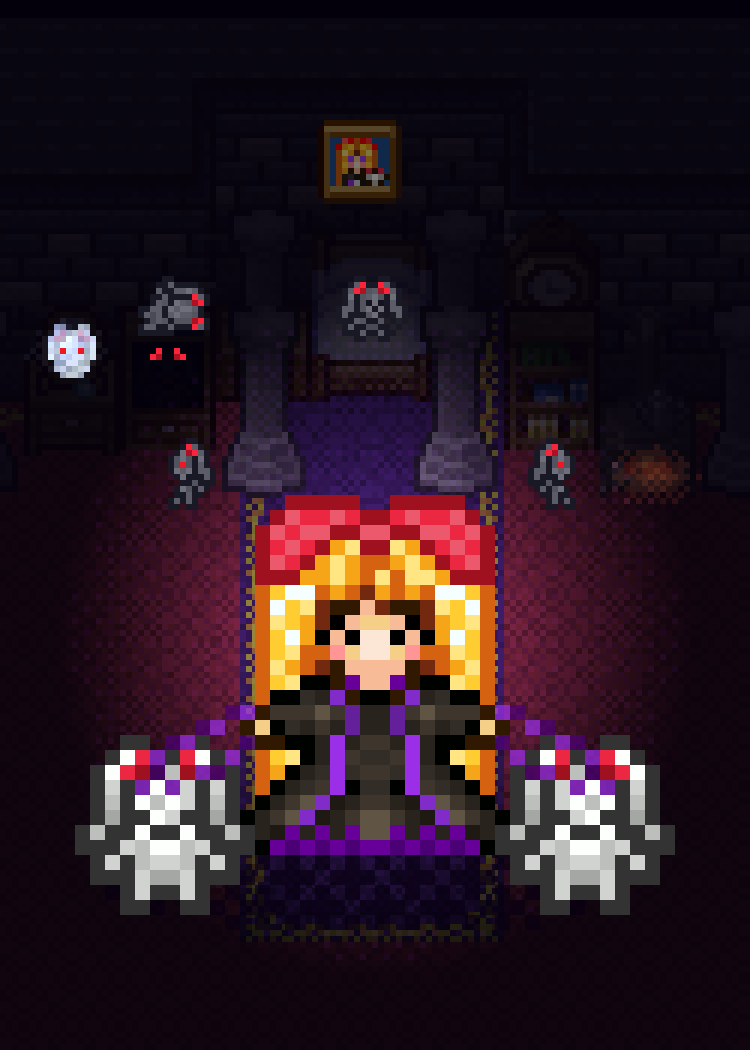
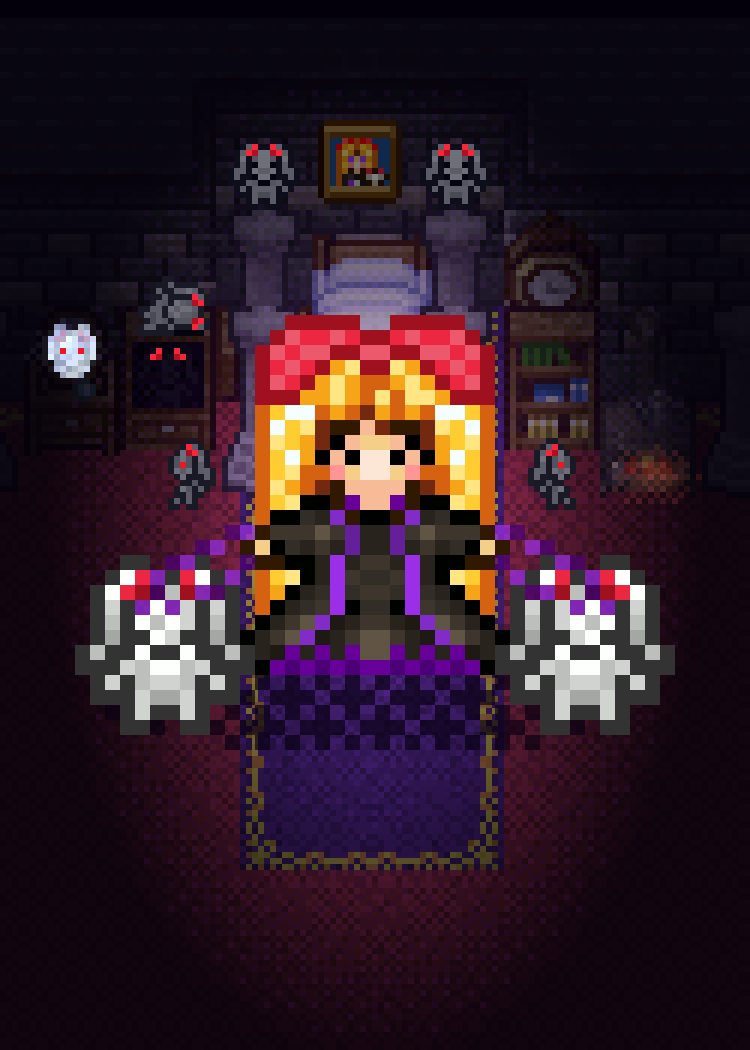
Runde 5: Zwischenstand der Helden-Sleeves (in Arbeit)
Claude-Session: https://claude.ai/code/session_01TEnvTzH2xD44R6Unjv7vDo

diff --git a/data/sleeve-proposals/runde5/generator/s02_glacier_vault.py b/data/sleeve-proposals/runde5/generator/s02_glacier_vault.py
@@ -1,0 +1,205 @@
+# -*- coding: utf-8 -*-
+"""02 Glacier Vault – Broghan, the Frozen Guardian of the North, steht in Ketten im Gewölbe unter dem Gletscher und
+bewacht das Heart of Ice, das hinter ihm über dem Spiegeleis schwebt und die Eiswände kalt aufleuchten lässt.
+Er selbst kann nicht erfrieren – er IST das Eis; sein rotes Auge ist das einzige warme Licht im Gewölbe.
+
+Quellen:
+  MotiveGrailWar.xcf  Ebene 472 „Broghan-Kopie“ – Base-Broghan mit Ketten (Karte „Broghan, the Frozen Guardian of
+                      the North“, Sichtbar #31 = Ebene 108, Lage 233,97; linke obere Figur, Box 245,105–300,145).
+                      Geprüft gegen die Szene: alle Pixel stimmen bis auf den weißen Schneedunst (~20 %) und das rote
+                      Fadenkreuz der Karte überein; Ebene 473 „Broghan“ ist dieselbe Figur OHNE Ketten, die Figur rechts
+                      (Armbrust) und die kettenlose Figur unten auf beiden Ebenen gehören zu anderen Szenen.
+  MotiveGrailWar.xcf  Ebene 476 „Ebene #139“ – Eisfels-Textur (Eisgrate aus derselben Broghan-Szene), senkrecht
+                      16-px-periodisch, daraus die Gewölbewand.
+  Motive.xcf          Ebene 739 „Heart of Ice“ – das Artefakt (Karte „Heart of Ice“, Sichtbar Ebene 736).
+Selbst gezeichnet: Lichtführung/Verdunklung der Eiswand, Eiszapfen, Spiegeleis-Boden mit Spiegelungen, Lichthof und
+Strahlen des Herzens, Verlängerung der beiden oberen Ketten bis zur Decke (Kettenglieder im Muster der Figur).
+
+Skalierung (Tiefenebenen):
+  Hintergrund (Eiswand, Eiszapfen, Spiegeleis hinten)       – 2×-Raster (125×175)
+  Mittelgrund (Heart of Ice mit Lichthof und Strahlen)      – 3×-Raster (84×117)
+  Vordergrund (Broghan, Ketten, seine Spiegelung, Boden)    – 5×-Raster (51×71, um 3 px nach links versetzt,
+                                                             damit Broghans Symmetrieachse mittig liegt)
+"""
+import math, random
+import numpy as np
+from common import *  # noqa
+
+rnd = random.Random(2)
+BAY = np.array([[0, 8, 2, 10], [12, 4, 14, 6], [3, 11, 1, 9], [15, 7, 13, 5]]) / 16.0 + 1 / 32.0
+
+# ------------------------------------------------------------------ Sprites
+broghan = sprite('h02_broghan', 'MotiveGrailWar', [472], box=(245, 105, 300, 145))   # 43×31, Achse Spalte 21
+heart = sprite('h02_heart', 'Motive', [739])                                          # 10×8
+wall_src = layer('MotiveGrailWar', 476)
+
+ICE = [(90, 146, 198), (57, 89, 140), (132, 186, 222), (82, 121, 173), (173, 215, 255), (231, 239, 255), (82, 117, 173)]
+
+
+def ice_texture():
+    """Senkrecht kachelbare Eistextur (16 Zeilen) aus dem Eisgrat: je Spalte ein 16er-Stück aus dem Band."""
+    rgb = wall_src[..., :3]
+    m = np.zeros(rgb.shape[:2], bool)
+    for c in ICE: m |= (rgb == c).all(2)
+    m &= wall_src[..., 3] > 0
+    T = np.zeros((16, 320, 3), np.uint8)
+    for i, x in enumerate(range(143, 463)):
+        ys = np.nonzero(m[:, x])[0]
+        runs = np.split(ys, np.nonzero(np.diff(ys) != 1)[0] + 1)
+        r = max(runs, key=len)
+        for y in r[:16]: T[y % 16, i] = rgb[y, x]
+    return T
+
+
+def comp(dst, src_rgba, k, ox=0, oy=0):
+    """Grobe RGBA-Ebene k-fach hochskalieren und auf das 250er-Canvas legen."""
+    big = up(src_rgba, k)
+    dst.paste(big, ox, oy)
+
+
+# ================================================================== Hintergrund 2× (125×175)
+W2, H2 = 125, 175
+HX, HY = 62.5, 39.0           # Herzmitte im 2×-Raster (125, 78 im 250er-Raster)
+HOR = 117                     # Horizont: Wand trifft Spiegeleis (y 234)
+T = ice_texture()
+tex = np.tile(T[:, 96:96 + W2], (H2 // 16 + 2, 1, 1))[:H2]
+bg = np.zeros((H2, W2, 4), np.uint8); bg[..., 3] = 255
+
+NAVY = np.array((10, 14, 34))
+
+
+def light(x, y):
+    d = math.hypot((x + 0.5 - HX) / 1.0, (y + 0.5 - HY) / 1.15)
+    L = max(0.0, 1 - d / 78.0) ** 1.6
+    return L
+
+
+for y in range(HOR):
+    for x in range(W2):
+        L = light(x, y)
+        # untere Wandzone etwas heller (Gegenlicht vom Spiegeleis)
+        L += 0.10 * max(0, (y - 80) / 37)
+        f = 0.16 + 0.95 * L
+        q = math.floor(f * 6 + BAY[y % 4, x % 4] - 0.5) / 6
+        q = min(max(q, 0.12), 1.05)
+        c = tex[y, x].astype(float)
+        col = NAVY * (1 - q) + c * q
+        bg[y, x, :3] = np.clip(col, 0, 255)
+
+# Eiszapfen an der Gewölbedecke (Silhouetten mit heller Kante)
+top = np.zeros(W2, int)
+x = 0
+while x < W2:
+    w = rnd.choice((3, 4, 5, 6))
+    ln = rnd.choice((4, 6, 8, 10, 13)) + (6 if abs(x - 62) > 34 else 0)
+    for i in range(w):
+        xx = x + i
+        if xx >= W2: break
+        t = abs(i - (w - 1) / 2) / (w / 2)
+        top[xx] = int(ln * (1 - t) + 2)
+    x += w
+for x in range(W2):
+    for y in range(0, top[x] + 3):
+        bg[y, x, :3] = (8, 11, 28) if y < top[x] else (18, 26, 58)
+    if 0 < top[x] < H2: bg[top[x] - 1, x, :3] = (46, 70, 128)       # Glanzkante
+
+# Spiegeleis: Wand gespiegelt, abgedunkelt, mit waagerechten Schlieren
+for y in range(HOR, H2):
+    k = y - HOR
+    sy = HOR - 1 - k
+    for x in range(W2):
+        c = bg[max(sy, 0), x, :3].astype(float) if sy >= 0 else NAVY
+        fade = 0.55 - 0.012 * k
+        col = NAVY * (1 - max(fade, 0.18)) + c * max(fade, 0.18)
+        # glatte Bänder
+        if (k + (x // 9) % 3) % 7 == 0 and k < 40: col = col * 1.18
+        bg[y, x, :3] = np.clip(col, 0, 255)
+# Horizontkante: dünner heller Saum (Schneerand am Wandfuß)
+for x in range(W2):
+    L = light(x, HOR)
+    c = (150, 176, 226) if L > 0.18 else (86, 110, 170)
+    bg[HOR, x, :3] = c
+    bg[HOR - 1, x, :3] = (62, 88, 150) if (x % 4) else c
+
+# ================================================================== Mittelgrund 3× (84×117)
+W3, H3 = 84, 117
+mid = np.zeros((H3, W3, 4), np.uint8)
+hx3, hy3 = 125 / 3, 78 / 3             # Herzmitte im 3×-Raster
+CY1, CY2, CW = (156, 211, 255), (114, 192, 255), (231, 243, 255)
+for y in range(H3):
+    for x in range(W3):
+        dx, dy = x + 0.5 - hx3, y + 0.5 - hy3
+        d = math.hypot(dx, dy * 1.05)
+        a = 0.0
+        if d < 15: a = max(a, 0.55 * (1 - d / 15) ** 1.2)
+        # vier weiche Strahlen (diagonal + senkrecht)
+        ang = math.atan2(dy, dx)
+        for base in (math.pi / 2, -math.pi / 2, math.pi / 4, 3 * math.pi / 4, -math.pi / 4, -3 * math.pi / 4):
+            da = abs((ang - base + math.pi) % (2 * math.pi) - math.pi)
+            wdt = 0.07 if base in (math.pi / 2, -math.pi / 2) else 0.05
+            if da < wdt and 6 < d < 34: a = max(a, 0.28 * (1 - d / 34))
+        if a <= 0: continue
+        q = math.floor(a * 4 + BAY[y % 4, x % 4]) / 4
+        if q <= 0: continue
+        col = CY1 if d > 6 else CW
+        mid[y, x, :3] = col
+        mid[y, x, 3] = int(255 * min(q, 0.75))
+# Herz selbst
+hy0, hx0 = int(round(hy3 - 4)), int(round(hx3 - 5))
+m = heart[..., 3] > 0
+mid[hy0:hy0 + 8, hx0:hx0 + 10][m] = heart[m]
+
+# ================================================================== Vordergrund 5× (51×71, Versatz −3 px)
+W5, H5 = 51, 71
+OX5 = -3
+fg = np.zeros((H5, W5, 4), np.uint8)
+BX, BY = 4, 29                        # Broghan links oben im 5×-Raster → x 17, y 145
+FEET = BY + 30                        # Sprite-Zeile 29 = Fußsohle, Zeile 30 = Kettenenden am Boden
+
+# Kettenverlängerung nach oben (Glieder im Muster der Figur: Seitenschienen, Einschnürung alle 4 Zeilen)
+B_, C_, D_ = (89, 89, 89), (137, 137, 137), (160, 160, 160)
+LINK = [  # 4 Zeilen, Spalten 0..3 (entspricht Sprite-Spalten 1..4 links oben)
+    [None, B_, C_, None],
+    [C_, None, None, D_],
+    [C_, None, None, D_],
+    [B_, None, None, C_],
+]
+
+
+def chain_up(col0, y_bottom, mirror=False):
+    for k, y in enumerate(range(y_bottom, -1, -1)):
+        row = LINK[k % 4]
+        if mirror: row = row[::-1]
+        for i, c in enumerate(row):
+            if c is not None and 0 <= y < H5:
+                fg[y, col0 + i, :3] = c; fg[y, col0 + i, 3] = 255
+
+
+chain_up(BX + 1, BY + 0)             # links: über dem Querriegel (Sprite-Zeile 1) weiter nach oben
+chain_up(BX + 38, BY - 1, mirror=True)   # rechts: über dem obersten Glied (Sprite-Zeile 0)
+
+# Spiegelung im Eis (unter der Fußlinie, gespiegelt, blau abgedunkelt, halbdurchsichtig)
+ref = broghan[:30][::-1]
+for j in range(ref.shape[0]):
+    y = FEET + j
+    if y >= H5: break
+    for i in range(ref.shape[1]):
+        if ref[j, i, 3] == 0: continue
+        c = np.array(ref[j, i, :3], float)
+        c = c * 0.55 + np.array((30, 44, 96)) * 0.45
+        a = 0.62 - 0.05 * j
+        if a <= 0.1: continue
+        fg[y, BX + i, :3] = c.astype(np.uint8)
+        fg[y, BX + i, 3] = int(255 * a)
+
+# Figur
+m = broghan[..., 3] > 0
+fg[BY:BY + 31, BX:BX + 43][m] = broghan[m]
+
+# ================================================================== zusammensetzen (250×350)
+cv = Canvas(250, 350)
+comp(cv, bg, 2)
+comp(cv, mid, 3, 0, 0)
+comp(cv, fg, 5, OX5, 0)
+save(cv, '02_glacier_vault.png')
+print('ok')

diff --git a/data/sleeve-proposals/runde5/generator/s06_dolls_in_the_dark.py b/data/sleeve-proposals/runde5/generator/s06_dolls_in_the_dark.py
@@ -5,8 +5,9 @@ Idee (Porträt/Ruhemoment, Grusel): Nachts in Alices Zimmer im Herrenhaus. Alice
 dem violetten Läufer, die Arme ausgebreitet; an ihren Fäden sitzen ihre zwei Puppen. Das Zimmer dahinter liegt
 im Dunkeln, nur ihr eigener violetter Magieschein beleuchtet Säulen, Bett und ihr Porträt an der Wand. In der
 Finsternis glühen die roten Puppenaugen: die Geisterpuppe im Spiegel des Frisiertischs, eine Puppe, die im
-offenen Schrank lauert, die Puppe auf dem Schrank, die auf dem Bett und zwei am Fuß der Säulen. Rechts glimmt
-der Ofen. (Ihre Kreaturen = ihre Macht: Kartentext zählt die Kreaturen, Destruction + Summoning Magic.)
+offenen Schrank lauert, die Puppe auf dem Schrank, zwei auf den Säulenkapitellen neben ihrem Porträt und zwei am
+Fuß der Säulen. Rechts glimmt der Ofen. Alice steht in der Bildmitte (Gesicht bei ~43 % der Höhe), der Läufer
+läuft vor ihr bis zur Goldborte weiter. (Ihre Kreaturen = ihre Macht: Kartentext zählt die Kreaturen, Destruction + Summoning Magic.)
 
 Quellen (MotiveBritain.xcf, Kartenszene „Sichtbar #53“ = Ebene 5, Lage 218,288, 76×50):
   Ebene 8 „Alice #6“  – Alice (dunkle Augen, Arme ausgebreitet) + ihre 2 Puppen + violette Fäden,
@@ -14,7 +15,7 @@ Quellen (MotiveBritain.xcf, Kartenszene „Sichtbar #53“ = Ebene 5, Lage 218,2
                         ohne den Kopf der Puppe darunter und ohne die rote Punktlinie über ihr. (Die Alice
                         links auf derselben Ebene mit türkisen Augen gehört zu „Mr. Jiggles“ – nicht verwendet.)
                       – außerdem: Geisterpuppe im Spiegel (alpha 76), liegende Puppe auf dem Schrank,
-                        Puppe auf dem Bett (ohne roten Faden), stehende + sitzende Puppe (verdunkelt im Schrank)
+                        stehende Puppe (2× an den Säulenfüßen), sitzende Puppe (2× auf den Kapitellen, 1× verdunkelt im Schrank)
   Ebene 60 „Ebene #173“ – Zimmer (Wände, Säulen, Frisiertisch, Schrank, Bett, Standuhr, Regal, Ofen, Teppich)
   Ebene 59 „Alice #7“   – violetter Läufer (Mittelstück, Periode 9, nach vorn verlängert)
   Ebene 56 „Ebene #224“ – Alice-Porträt im Bilderrahmen, Kristallkugel
@@ -64,7 +65,7 @@ l8 = layer(D, 8)
 room = layer(D, 60).copy()
 # Läufer (Ebene 59) nach vorn verlängert: Mittelstück (Periode 9) wiederholt, Endborte nach unten versetzt
 rug = layer(D, 59)
-E = 36
+E = 24
 rug2 = np.zeros_like(rug)
 rug2[:341] = rug[:341]
 for y in range(341, 341 + E):
@@ -75,9 +76,7 @@ acc = over(acc, layer(D, 56))                               # Bild im Rahmen (Al
 gh8 = keep_boxes(l8, [(227, 291, 237, 302)])                # Geister-Puppe im Spiegel (alpha 76)
 ward = keep_boxes(l8, [(243, 283, 256, 295)])               # liegende Puppe auf dem Schrank
 ward[np.all(ward[..., :3] == (209, 0, 0), -1)] = 0             # (ohne die gepunkteten roten Fäden)
-bed = keep_boxes(l8, [(276, 283, 288, 295)])                # Puppe auf dem Bett (ohne ihren roten Faden)
-bed[np.all(bed[..., :3] == (209, 0, 0), -1)] = 0
-acc = over(acc, gh8); acc = over(acc, ward); acc = over(acc, bed)
+acc = over(acc, gh8); acc = over(acc, ward)
 # im offenen, schwarzen Schrank (x 242–253, y 295–305) lauert eine Puppe: fast schwarz, nur die Augen glühen
 sit = [p for p in parts(l8, dil=0, minpx=2) if p.shape[:2] == (12, 12)][0]
 lurk = sit.copy()
@@ -91,6 +90,10 @@ dolls = parts(l8, dil=0, minpx=2)
 stand = [p for p in dolls if p.shape[:2] == (12, 8)][0]
 acc = put(acc, stand, 248, 311)
 acc = put(acc, flip(stand), 2 * AX - 248 - 8, 311)
+# zwei sitzende Puppen oben auf den Kapitellen der hinteren Säulen (x 259–268 / 291–300, Oberkante y 273)
+TOPS = [(258, 261, sit), (290, 261, flip(sit))]
+for px, py, sp in TOPS:
+    acc = put(acc, sp, px, py)
 bg = acc[RY0:RY0 + 175, RX0:RX0 + 125].copy()
 bg[..., 3] = 255
 
@@ -105,13 +108,15 @@ gm = gh8[291:302, 227:237, 3] > 0
 ghost[291 - RY0:302 - RY0, 227 - RX0:237 - RX0] = gm
 
 # Licht: violetter Schein um Alice, nach außen Finsternis (weich, im 2×-Raster)
-LX, LY = 62.5, 106
+LX, LY = 62.5, 84
 GLOW = np.array([64, 16, 104])
 dollm = np.zeros(bg.shape[:2], bool)                       # Puppen im Hintergrund (bleiben blass sichtbar)
-for sp in (ward, bed):
+for sp in (ward,):
     dollm |= sp[RY0:RY0 + 175, RX0:RX0 + 125, 3] > 0
 for (px, py) in ((248, 311), (2 * AX - 248 - 8, 311)):
     dollm[py - RY0:py - RY0 + 12, px - RX0:px - RX0 + 8] |= stand[..., 3] > 0 if px == 248 else flip(stand)[..., 3] > 0
+for px, py, sp in TOPS:
+    dollm[py - RY0:py - RY0 + 12, px - RX0:px - RX0 + 12] |= sp[..., 3] > 0
 pict = np.zeros(bg.shape[:2], bool)                          # Bild (Rahmen + Alice-Porträt) leicht beleuchtet
 _b = bg[257 - RY0:272 - RY0, 272 - RX0:289 - RX0, :3].astype(int)
 pict[257 - RY0:272 - RY0, 272 - RX0:289 - RX0] = ((((_b[..., 0] - _b[..., 2] > 25) & (_b.min(-1) < 110)) | (_b[..., 2] - _b[..., 0] > 25))
@@ -120,7 +125,7 @@ out = rgb.astype(float)
 EYE = np.array([255, 36, 56])
 for y in range(175):
     for x in range(125):
-        d = math.hypot((x + .5 - LX) / 54, (y + .5 - LY) / 58)
+        d = math.hypot((x + .5 - LX) / 56, (y + .5 - LY) / (76 if y < LY else 96))
         t = max(0.0, 1 - d)
         f = 0.07 + 0.88 * t ** 1.25
         c = out[y, x]
@@ -161,7 +166,7 @@ for y in range(gh):
         if grp[y, x, 3] and tuple(grp[y, x, :3]) in (F1, F2) and not (248 <= x + 236 <= 263):
             grp[y, x, 3] = 185
 AL = rgba(50, 70)
-gx, gyb = 5, 61                                    # Gruppe x 236–275 (Alice 248–263) genau mittig, Unterkante y 61
+gx, gyb = 5, 49                                    # Gruppe x 236–275 (Alice 248–263) genau mittig, Oberkante y 21 → Gesicht bei ~43 % der Höhe
 for y in range(70):
     for x in range(50):
         d = ((x + .5 - 25) / 19) ** 2 + ((y + .5 - (gyb - 2.5)) / 3.6) ** 2

diff --git a/data/sleeve-proposals/runde5/notes.md b/data/sleeve-proposals/runde5/notes.md
@@ -2,4 +2,4 @@
 01 | Heartguard | Cool Rescuer Monia | Monia (Base) schwebt mit feuernden Jet-Düsen vor dem Herz ihres Kartenbilds, das zum durchscheinenden Schutzschild wird; darin bergen sich eine Cute Bunny (Fledermaus-Hase) und eine Cute Cat, eine MOE-Bomb-Herzbombe verpufft am Schildrand, eine zweite fällt noch heran; das Herz ruht auf einer Wolkenbank (Kartentext: Effekte auf Kreaturen negieren) | Monia 5×; Hintergrund-Ebene (Himmel, Wolken, Herzschild, Kreaturen, Bomben, Effekte) 2× | MotiveMoe 511+510 (Monia Base, pixelgleich mit Szene 68 „Sichtbar #157“), 512 (Herz-Palette, Deko-Herzen), 429 Cute Bunny #1, 492 Cute Cat, 376 MOE Bomb (M-Emblem übermalt), 553 Hintergrund (Himmel); Schild/Explosion/Wolken selbst gezeichnet | Rahmen: ornate/silver/rose/sapphire
 04 | Stormdraw | Champion, the Stormbringer | Champion steht auf einer Hügelkuppe im Gewitter und zeigt mit ausgestrecktem Arm auf den Rüssel seines Tornados (wie im Kartenbild links neben ihm); gebogene Windstreifen laufen spiralig um den Trichter und reißen fünf Karten beider Spieler (lila Heldenkarten, rot, blau, gold) gestaffelt hinauf in die eingedrehte Mutterwolke – sein Kartentext „beide werfen ab und ziehen neu“; rechts ein ferner Blitz, links der Fluss aus der Kartenszene | Himmel/Wolken/Regen/Blitz/Ebene/Fluss 2×, Tornado (96×150)/Karten (24×33)/Windstreifen/Staub/Hügel 3×, Champion 5× (140×155) | MotiveJapan 121 „Champion“ + 119 + 120 (Schwert „The Stormblade“, geprüft gegen Sichtbar #33/#38), MotiveJapan 112 (Tornado der Karte, falsch benannt „Gate to the Armory“), Motive 584 (Spielkarten aus „Card Game Player Inya“) | Rahmen: twist/silver/amethyst/cyan
 03 | Vials on the Vine | Kyli, the Deceptive Sapling | Nachts steht Kyli (Base) groß im kerzenbeleuchteten Opferring auf der Steinlichtung ihrer Kartenszene, ihr Zweig-Geweih zeichnet sich vor einem fahlen Vollmond ab; aus den drei Geweihspitzen wachsen Ranken, die drei zurückgeholte Tränke (grün, türkis, rot) wie Früchte in die Luft halten (Occultism-Opfer → gelöschte Potions werden Biomancy-Tokens); zwei gespiegelte Augenbäume mit rotem Auge und Zahnmaul aus ihrem Kartenbild rahmen die Szene | Himmel/Sterne/Mond 2×; Steinboden, Ringschein, Augenbäume 3×; Kyli (120×165), Tränke, Ranken, Ring, Kerzen 5× | MotiveGrailWar 149 „Kyli“ (einzige Kyli-Ebene, = Sichtbar #7 Lage 237,48, 0 px Abweichung), 150 „Ebene #431“ (Augenbaum derselben Szene; nicht 160 „Occultism“, weicht ab), 161 (Steinboden-Kachel), 159 (Kerze aus dem Ritualkreis); MotiveSteamDwarfs 134 „Biomancy“ (Korkflaschen); Himmel, Mond, Ring ohne Pentagramm, Ranken selbst gezeichnet | Rahmen: bone/ebony/emerald/ruby
-06 | Dolls in the Dark | Alice, the Puppeteer Girl | Nachts in Alices dunklem Zimmer im Herrenhaus: Alice steht groß und frontal auf dem violetten Läufer, Arme ausgebreitet, an ihren Fäden (Originalpixel, 1 px dunkel/hell, halbtransparent, von den Händen zu den Puppenköpfen) sitzen ihre zwei Puppen; nur ihr violetter Magieschein erhellt Säulen, Bett und ihr eigenes Porträt an der Wand, ringsum glühen in der Finsternis rote Puppenaugen (Geisterpuppe im Spiegel, lauernde Puppe im offenen Schrank, Puppen auf Schrank und Bett, zwei an den Säulen), rechts glimmt der Ofen | Zimmer + Hintergrundpuppen + Licht 2× (125×175), Alice + 2 Puppen + Fäden + Schatten 5× (50×70) | MotiveBritain: Ebene 8 „Alice #6“ (Alice-Gruppe x236–275/y303–330, pixelgleich mit Szene 5 „Sichtbar #53“, Lage 218,288; Geist, Hintergrundpuppen), 60 (Zimmer), 59 (Läufer, verlängert), 56 (Alice-Porträt, Kristallkugel) | Rahmen: ornate/gothic/amethyst/ruby
+06 | Dolls in the Dark | Alice, the Puppeteer Girl | Nachts in Alices dunklem Zimmer im Herrenhaus: Alice steht groß und frontal in der Bildmitte (Gesicht bei ~43 % der Höhe) auf dem violetten Läufer, der vor ihr bis zur Goldborte weiterläuft; Arme ausgebreitet, an ihren Fäden (Originalpixel, 1 px dunkel/hell, halbtransparent, von den Händen zu den Puppenköpfen) sitzen ihre zwei Puppen; ihr violetter Magieschein erhellt Säulen, Bett und ihr eigenes Porträt an der Wand, ringsum glühen in der Finsternis rote Puppenaugen (zwei Puppen auf den Säulenkapitellen neben dem Porträt, Geisterpuppe im Spiegel, lauernde Puppe im offenen Schrank, Puppe auf dem Schrank, zwei an den Säulenfüßen), rechts glimmt der Ofen | Zimmer + Hintergrundpuppen + Licht 2× (125×175), Alice + 2 Puppen + Fäden + Schatten 5× (50×70) | MotiveBritain: Ebene 8 „Alice #6“ (Alice-Gruppe x236–275/y303–330, pixelgleich mit Szene 5 „Sichtbar #53“, Lage 218,288; Geist, Hintergrundpuppen), 60 (Zimmer), 59 (Läufer, verlängert), 56 (Alice-Porträt, Kristallkugel) | Rahmen: ornate/gothic/amethyst/ruby
